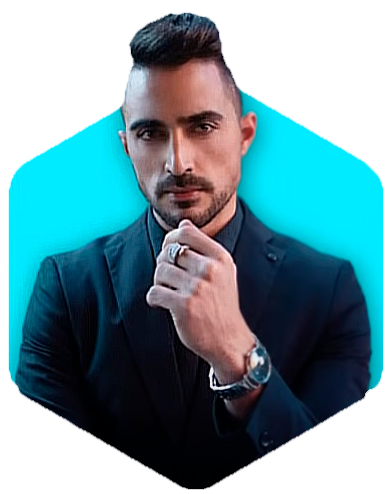
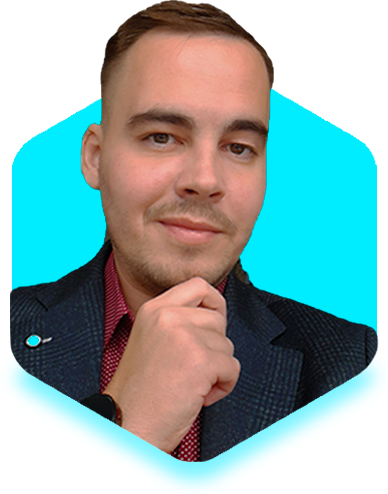
fix css mobile

diff --git a/app/Components/Header/Header.tsx b/app/Components/Header/Header.tsx
@@ -11,7 +11,26 @@ export const Header = ({ className, ...props }: HeaderProps): JSX.Element => {
 
     const [openMenu, setOpenMenu] = useState<boolean>(false);
 
+    const [closeMenu, setCloseMenu] = useState<boolean>(false);
+
     const [classStiky, setClassStiky] = useState<boolean>(false);
+
+    const openCloseNav = async () => {
+        if (openMenu) {
+
+            setCloseMenu(true);
+
+            const interval = setTimeout(() => {
+
+                setCloseMenu(false);
+                setOpenMenu(false);
+                
+            }, 700)
+
+            return;
+        }
+        setOpenMenu(oldState => !oldState)
+    };
 
     useEffect(() => {
 
@@ -41,7 +60,7 @@ export const Header = ({ className, ...props }: HeaderProps): JSX.Element => {
             <Link className={styles['logo']} href={`#`}>Портфолио</Link>
 
             <i
-                onClick={() => { setOpenMenu(oldState => !oldState) }}
+                onClick={openCloseNav}
                 className={cn({
                     'bx bx-menu': !openMenu,
                     'bx bx-x': openMenu
@@ -49,7 +68,7 @@ export const Header = ({ className, ...props }: HeaderProps): JSX.Element => {
                 id={styles['menu-icon']}
             ></i>
 
-            <Navbar setOpenMenu={setOpenMenu} openStatus={openMenu} />
+            <Navbar setOpenMenu={setOpenMenu} openStatus={openMenu} closeStatus={closeMenu} />
 
         </header>
     );

diff --git a/app/Components/About/About.tsx b/app/Components/About/About.tsx
@@ -15,14 +15,14 @@ export const About = ({ className, ...props }: AboutProps): JSX.Element => {
         <section className={cn(className, styles['about'])} {...props} id="about">
 
             <motion.div
-                transition={{ duration: 2 }}
+                transition={{ duration: 1 }}
                 variants={ImageAboutAnimation}
                 initial="hidden"
                 whileInView="visible"
 
                 className={styles['about-img']}>
 
-                <Image src={`/home.png`}
+                <Image src={`/home2.png`}
                     alt=""
                     width={100}
                     height={100}
@@ -47,14 +47,15 @@ export const About = ({ className, ...props }: AboutProps): JSX.Element => {
                     title="Обо "
                     spanTitle="мне" />
 
-                <h3>Frontend Developer</h3>
+                <h3>Full-stack Developer</h3>
 
                 <p>Lorem ipsum dolor sit amet, consectetur adipisicing
                     elit. Hic, ratione delectus nostrum enim laudantium nam quod quo
                     quos est incidunt iure velit dolore amet quam blanditiis consequuntur sunt vero asperiores!
                 </p>
 
-                <ButtonLink link={`#`} text={`Read More`} />
+                <div className={styles['about-btn']}><ButtonLink link={`#`} text={`Read More`} /></div>
+
 
             </motion.div>
 

diff --git a/app/Components/Home/Home.tsx b/app/Components/Home/Home.tsx
@@ -58,8 +58,10 @@ export const Home = ({ className, ...props }: HomeProps): JSX.Element => {
                 <motion.p
                     transition={{ duration: 1.2 }}
                     variants={otherTextAnimation}
-                >Lorem ipsum dolor sit, amet consectetur adipisicing elit. Placeat dolore ea unde nulla voluptatibus quos delectus quam doloremque, debitis eligendi tenetur veniam aliquid repudiandae? Aliquid expedita deserunt
-                    itaque aspernatur omnis.</motion.p>
+                    className={styles['text']}
+
+                >Реализовываю идеи заказчиков. Работаю на качество. Полностью погружаюсь в задачу, дополняю задумки своими идеями при необходимости.
+                    Отдаю заказчику максимум: инструкции, поддержка 24/7, гарантия</motion.p>
 
                 <div className={styles['actions']}>
 
@@ -81,6 +83,7 @@ export const Home = ({ className, ...props }: HomeProps): JSX.Element => {
                 className={styles['home-img']}>
 
                 <Image src={`/home.png`}
+                    priority
                     alt=""
                     width={100}
                     height={100}

diff --git a/app/Components/Home/Home.module.css b/app/Components/Home/Home.module.css
@@ -10,7 +10,11 @@
         display: flex;
         flex-direction: column;
         align-items: center;
-    }
+}
+
+.text {
+    line-height: 18px;
+}
 
 .home-content h3 {
     font-size: 3.2rem;
@@ -43,7 +47,7 @@
 }
 
 .home-img img {
-    width: 25vw !important;
+    width: 20vw !important;
     height: 100% !important;
 /*     -webkit-animation: startImage 1s ease-in-out forwards, floatImage 4s ease-in-out infinite;
     -moz-animation: startImage 1s ease-in-out forwards, floatImage 4s ease-in-out infinite;
@@ -72,7 +76,7 @@
 
 @media (max-width: 1200px) {
     .home-img img {
-        width: 30vw !important;
+        width: 20vw !important;
         height: 100% !important;
     }
     .multi-wrapper {
@@ -85,7 +89,7 @@
 @media (max-width: 768px) {
     .home {
         flex-direction: column;
-        gap: 0;
+        gap: 10px;
     }
 
     .actions {
@@ -101,7 +105,7 @@
     }
 
     .home-img img {
-        width: 70vw !important;
+        width: 40vw !important;
         height: 100% !important;
         margin-top: 4rem;
     }
@@ -118,6 +122,11 @@
     .multi-wrapper {
     
         min-height: 60px;
+    }
+    .home-img img {
+        width: 50vw !important;
+        height: 100% !important;
+        margin-top: 4rem;
     }
 }
 

diff --git a/app/Components/ButtonLinkPulse/ButtonLinkPulse.tsx b/app/Components/ButtonLinkPulse/ButtonLinkPulse.tsx
@@ -1,21 +1,18 @@
 import { ButtonLinkPulseProps } from "./ButtonLinkPulse.props";
 
-import { motion } from "framer-motion";
-
 import styles from './ButtonLinkPulse.module.css';
 
 import cn from 'classnames';
 import Link from "next/link";
-import { pulseAnimationOne, pulseAnimationThree, pulseAnimationTwo } from "./pulseAnimations";
 
-export const ButtonLinkPulse = ({ link, text, className, ...props }: ButtonLinkPulseProps): JSX.Element => {
+export const ButtonLinkPulse = ({ link, text, className }: ButtonLinkPulseProps): JSX.Element => {
     return (
-        <Link href={link} className={cn(styles['btn'], className)} {...props}>
+        <Link href={link} className={cn(styles['btn'], className)}>
 
             <span className={styles['pulse']} />
-            
+
             <span className={styles['pulse']} />
-            
+
             <span className={styles['pulse']} />
 
             {text}

diff --git a/app/Components/Navbar/Navbar.tsx b/app/Components/Navbar/Navbar.tsx
@@ -6,13 +6,14 @@ import { useActiveSections } from "./useActiveSections";
 
 import cn from 'classnames';
 
-export const Navbar = ({ setOpenMenu, openStatus, className, ...props }: NavbarProps): JSX.Element => {
+export const Navbar = ({ setOpenMenu, openStatus, closeStatus, className, ...props }: NavbarProps): JSX.Element => {
 
     useActiveSections();
 
     return (
         <nav className={cn(styles['navbar'], {
-            [styles['active']]: openStatus,
+            [styles['open']]: openStatus,
+            [styles['close']]: closeStatus,
         })} {...props}>
             <Link onClick={() => setOpenMenu(false)} href={`#home`} className={styles['active']}>Главная</Link>
             <Link onClick={() => setOpenMenu(false)} href={`#about`}>Обо мне</Link>

diff --git a/app/Components/Navbar/Navbar.module.css b/app/Components/Navbar/Navbar.module.css
@@ -5,6 +5,32 @@
     transition: color .3s ease-in-out;
 }
 
+.open {
+    animation: openAnimation .5s ease-in-out;
+}
+
+@keyframes openAnimation {
+    0% {
+        transform: translateY(-100%);
+    }
+    100% {
+        transform: translateY(0);
+    }
+}
+
+.close {
+    animation: closeAnimation 1s ease-in-out;
+}
+
+@keyframes closeAnimation {
+    0% {
+        transform: translateY(0);
+    }
+    100% {
+        transform: translateY(-200%);
+    }
+}
+
 .navbar a:hover,
 .navbar a.active {
     color: var(--main-color);
@@ -23,7 +49,7 @@
         display: none;
     }
 
-    .active {
+    .open {
         display: block;
     }
 

diff --git a/app/Components/About/About.module.css b/app/Components/About/About.module.css
@@ -8,7 +8,7 @@
 
 .about-img img {
 
-    width: 35vw !important;
+    width: 22vw !important;
     height: 100% !important;
 }
 
@@ -38,11 +38,18 @@
 @media (max-width: 768px) {
     .about {
         flex-direction: column-reverse;
+        gap: 0;
+    }
+
+    .about-btn {
+        width: 100%;
+        display: flex;
+        justify-content: center;
     }
 
     .about-img img {
 
-        width: 70vw !important;
+        width: 50vw !important;
         margin-top: 4rem;
     }
 }

diff --git a/app/Components/Navbar/Navbar.props.ts b/app/Components/Navbar/Navbar.props.ts
@@ -2,5 +2,6 @@ import { DetailedHTMLProps, Dispatch, HTMLAttributes, SetStateAction } from "rea
 
 export interface NavbarProps extends DetailedHTMLProps<HTMLAttributes<HTMLDivElement>, HTMLDivElement> {
     openStatus: boolean,
+    closeStatus: boolean,
     setOpenMenu: Dispatch<SetStateAction<boolean>>;
 };

diff --git a/app/Components/Header/Header.module.css b/app/Components/Header/Header.module.css
@@ -8,8 +8,9 @@
     display: flex;
     justify-content: space-between;
     align-items: center;
-    z-index: 100;
+    z-index: 2;
 }
+
 
 .logo {
     font-size: 2.5rem;
@@ -28,6 +29,7 @@
 .sticky {
     border-bottom: .1rem solid rgba(0, 0, 0, .2);
 }
+
 
 @media (max-width: 991px) {
     .header {

diff --git a/app/Components/ButtonLinkPulse/ButtonLinkPulse.module.css b/app/Components/ButtonLinkPulse/ButtonLinkPulse.module.css
@@ -53,7 +53,7 @@
 
     to {
         opacity: 0;
-        transform: scale(1.6, 1.6);
+        transform: scale(1.6, 2.2);
     }
 }
 
@@ -77,6 +77,6 @@
 
     to {
         opacity: 0;
-        transform: scale(2, 2);
+        transform: scale(2, 2.2);
     }
 }
